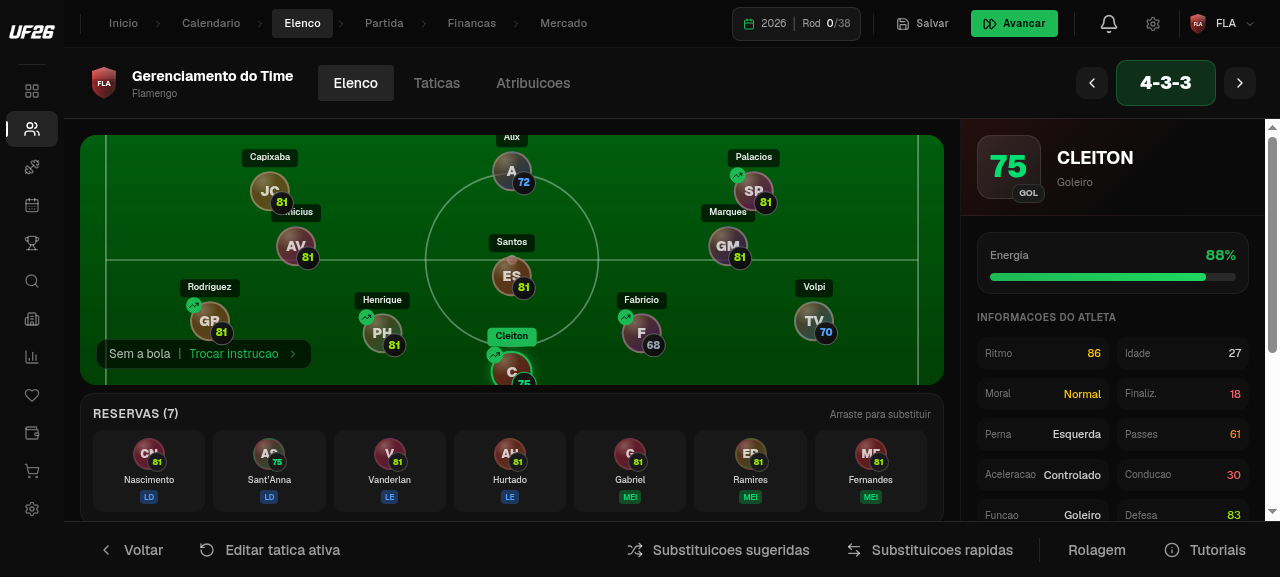
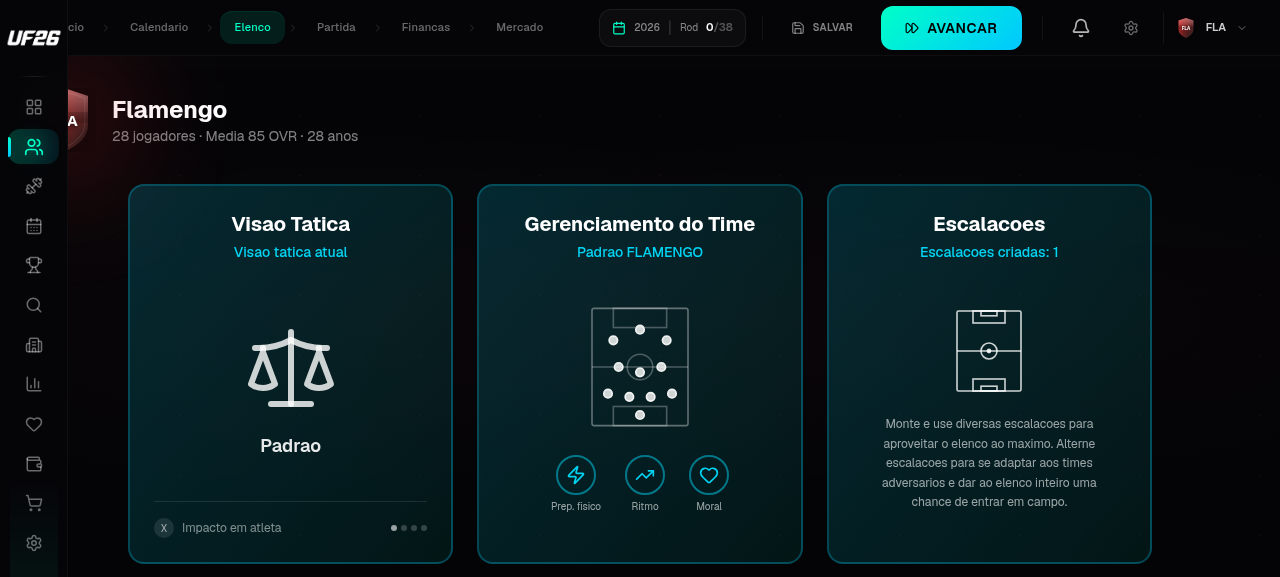
refactor: enhance gamepad responsiveness and layout adjustments
Responsive sidebar and mobile menu; adjust padding and fixed bars; safe-area CSS for mobile

diff --git a/app/elenco/gerenciamento/page.tsx b/app/elenco/gerenciamento/page.tsx
@@ -535,7 +535,7 @@ export default function ElencoPage() {
   // Menu view with cards
   if (currentView === "menu") {
     return (
-      <div className="h-screen pl-16 bg-[#050508] flex flex-col overflow-hidden">
+      <div className="h-screen md:pl-16 pl-0 pb-20 md:pb-0 bg-[#050508] flex flex-col overflow-hidden">
         <GameSidebar />
         <GameHeader team={userTeam} />
         
@@ -649,7 +649,7 @@ export default function ElencoPage() {
           </div>
           
           {/* Bottom controls */}
-          <div className="fixed bottom-0 left-16 right-0 h-14 bg-[#0d0d0d] border-t border-white/10 flex items-center justify-between px-4 md:px-6">
+          <div className="fixed bottom-0 left-0 md:left-16 right-0 h-14 bg-[#0d0d0d] border-t border-white/10 flex items-center justify-between px-4 md:px-6">
             <div className="flex items-center gap-2 md:gap-4">
               <Button variant="ghost" size="sm" className="text-white/60 hover:text-white text-xs md:text-sm">
                 <Gamepad2 className="h-4 w-4 mr-1 md:mr-2" />
@@ -681,7 +681,7 @@ export default function ElencoPage() {
   // Visao Tatica view
   if (currentView === "visao_tatica") {
     return (
-      <div className="h-screen pl-16 bg-gradient-to-br from-primary/20 via-[#0a0a0a] to-primary/10 flex flex-col overflow-hidden">
+      <div className="h-screen md:pl-16 pl-0 pb-20 md:pb-0 bg-gradient-to-br from-primary/20 via-[#0a0a0a] to-primary/10 flex flex-col overflow-hidden">
         <GameSidebar />
         <GameHeader team={userTeam} />
         
@@ -842,7 +842,7 @@ export default function ElencoPage() {
           </div>
           
           {/* Bottom controls */}
-          <div className="fixed bottom-0 left-16 right-0 h-14 bg-[#0d0d0d] border-t border-white/10 flex items-center justify-between px-4 md:px-6">
+          <div className="fixed bottom-0 left-0 md:left-16 right-0 h-14 bg-[#0d0d0d] border-t border-white/10 flex items-center justify-between px-4 md:px-6">
             <div className="flex items-center gap-2 md:gap-4">
               <Button 
                 variant="ghost" 
@@ -1427,7 +1427,7 @@ export default function ElencoPage() {
       </main>
       
       {/* Bottom action bar */}
-      <div className="fixed bottom-0 left-16 right-0 h-12 md:h-14 bg-[#0d0d0d] border-t border-white/10 flex items-center justify-between px-2 md:px-6">
+      <div className="fixed bottom-0 left-0 md:left-16 right-0 h-12 md:h-14 bg-[#0d0d0d] border-t border-white/10 flex items-center justify-between px-2 md:px-6">
         <div className="flex items-center gap-1 md:gap-4">
           <Button 
             variant="ghost" 

diff --git a/app/mercado/page.tsx b/app/mercado/page.tsx
@@ -287,7 +287,7 @@ export default function MercadoPage() {
   }
 
   return (
-    <div className="h-screen overflow-hidden pl-16 bg-[#050508]">
+    <div className="h-screen overflow-hidden md:pl-16 pl-0 pb-20 md:pb-0 bg-[#050508]">
       <GameSidebar />
       <GameHeader team={userTeam} />
 
@@ -859,7 +859,7 @@ export default function MercadoPage() {
             </div>
 
             {/* Bottom Actions Bar */}
-            <div className="fixed bottom-0 left-16 right-0 bg-gradient-to-t from-[#050508] via-[#050508]/95 to-transparent py-4 px-6">
+            <div className="fixed bottom-0 left-0 md:left-16 right-0 bg-gradient-to-t from-[#050508] via-[#050508]/95 to-transparent py-4 px-6">
               <div className="flex items-center justify-between">
                 <div className="flex items-center gap-6">
                   <div className="flex items-center gap-2">
@@ -910,7 +910,7 @@ export default function MercadoPage() {
             </div>
 
             {/* Bottom Actions Bar */}
-            <div className="fixed bottom-0 left-16 right-0 bg-gradient-to-t from-[#050508] via-[#050508]/95 to-transparent py-4 px-6">
+            <div className="fixed bottom-0 left-0 md:left-16 right-0 bg-gradient-to-t from-[#050508] via-[#050508]/95 to-transparent py-4 px-6">
               <div className="flex items-center justify-between">
                 <div className="flex items-center gap-6">
                   <div className="flex items-center gap-2">
@@ -959,7 +959,7 @@ export default function MercadoPage() {
             </div>
 
             {/* Bottom Actions Bar */}
-            <div className="fixed bottom-0 left-16 right-0 bg-gradient-to-t from-[#050508] via-[#050508]/95 to-transparent py-4 px-6">
+            <div className="fixed bottom-0 left-0 md:left-16 right-0 bg-gradient-to-t from-[#050508] via-[#050508]/95 to-transparent py-4 px-6">
               <div className="flex items-center justify-between">
                 <div className="flex items-center gap-6">
                   <div className="flex items-center gap-2">

diff --git a/app/configuracoes/page.tsx b/app/configuracoes/page.tsx
@@ -184,7 +184,7 @@ export default function ConfiguracoesPage() {
   if (currentView === "menu") {
     return (
       <ControllerTypeContext.Provider value={controllerType}>
-        <div className="h-screen pl-16 bg-[#050508] flex flex-col overflow-hidden">
+        <div className="h-screen md:pl-16 pl-0 pb-20 md:pb-0 bg-[#050508] flex flex-col overflow-hidden">
           <GameSidebar />
           <GameHeader team={userTeam} />
           
@@ -238,7 +238,7 @@ export default function ConfiguracoesPage() {
             </div>
             
             {/* Bottom controls */}
-            <div className="fixed bottom-0 left-16 right-0 h-14 bg-[#0d0d0d] border-t border-white/10 flex items-center justify-between px-4 md:px-6">
+            <div className="fixed bottom-0 left-0 md:left-16 right-0 h-14 bg-[#0d0d0d] border-t border-white/10 flex items-center justify-between px-4 md:px-6">
               <div className="flex items-center gap-4">
                 <Button variant="ghost" size="sm" className="text-white/60 hover:text-white text-xs">
                   <Gamepad2 className="h-4 w-4 mr-2" />
@@ -985,7 +985,7 @@ export default function ConfiguracoesPage() {
 
   return (
     <ControllerTypeContext.Provider value={controllerType}>
-      <div className="h-screen pl-16 bg-[#050508] flex flex-col overflow-hidden">
+      <div className="h-screen md:pl-16 pl-0 pb-20 md:pb-0 bg-[#050508] flex flex-col overflow-hidden">
         <GameSidebar />
         <GameHeader team={userTeam} />
 

diff --git a/app/calendario/page.tsx b/app/calendario/page.tsx
@@ -194,7 +194,7 @@ export default function CalendarioPage() {
 
   if (!hydrated) {
     return (
-      <div className="h-screen overflow-hidden pl-16 bg-[#f5f5f0] flex items-center justify-center">
+      <div className="h-screen overflow-hidden md:pl-16 pl-0 pb-20 md:pb-0 bg-[#f5f5f0] flex items-center justify-center">
         <Loader2 className="h-8 w-8 animate-spin text-[#0ea5e9]" />
       </div>
     )
@@ -210,7 +210,7 @@ export default function CalendarioPage() {
     `15 ABR 2026`
 
   return (
-    <div className="h-screen overflow-hidden pl-16 bg-gradient-to-br from-[#f0f0eb] via-[#e8e8e3] to-[#ddddd8]">
+    <div className="h-screen overflow-hidden md:pl-16 pl-0 pb-20 md:pb-0 bg-gradient-to-br from-[#f0f0eb] via-[#e8e8e3] to-[#ddddd8]">
       <GameSidebar />
       <GameHeader team={userTeam} />
 

diff --git a/app/financas/page.tsx b/app/financas/page.tsx
@@ -208,7 +208,7 @@ export default function FinancasPage() {
 
   if (!hydrated || !userTeam || !dynamicFinances) {
     return (
-      <div className="h-screen pl-16 bg-[#050508] flex items-center justify-center">
+      <div className="h-screen md:pl-16 pl-0 pb-20 md:pb-0 bg-[#050508] flex items-center justify-center">
         <Loader2 className="h-8 w-8 animate-spin text-primary" />
       </div>
     )
@@ -217,7 +217,7 @@ export default function FinancasPage() {
   const wagePercentage = (dynamicFinances.wageUsed / dynamicFinances.wageBudget) * 100
 
   return (
-    <div className="h-screen pl-16 bg-[#050508] flex flex-col overflow-hidden">
+    <div className="h-screen md:pl-16 pl-0 pb-20 md:pb-0 bg-[#050508] flex flex-col overflow-hidden">
       <GameSidebar />
       <GameHeader team={userTeam} />
 

diff --git a/app/partida/page.tsx b/app/partida/page.tsx
@@ -346,14 +346,14 @@ export default function PreMatchPage() {
 
   if (!hydrated) {
     return (
-      <div className="h-screen pl-16 bg-[#050508] flex items-center justify-center text-white/40 text-sm">
+      <div className="h-screen md:pl-16 pl-0 pb-20 md:pb-0 bg-[#050508] flex items-center justify-center text-white/40 text-sm">
         Carregando...
       </div>
     )
   }
 
   return (
-    <div className="h-screen pl-16 bg-[#050508] flex flex-col overflow-hidden">
+    <div className="h-screen md:pl-16 pl-0 pb-20 md:pb-0 bg-[#050508] flex flex-col overflow-hidden">
       <GameSidebar />
       <GameHeader team={userTeam} />
 

diff --git a/components/gamepad-controls-bar.tsx b/components/gamepad-controls-bar.tsx
@@ -154,8 +154,9 @@ export function GamepadControlsBar({
 
   return (
     <div className={cn(
-      "fixed bottom-0 left-16 right-0 z-40 flex items-center justify-center gap-6 px-6 py-2.5",
+      "fixed bottom-0 left-0 md:left-16 right-0 z-30 items-center justify-center gap-6 px-6 py-2.5",
       "bg-[#050508]/95 backdrop-blur-sm border-t border-white/[0.04]",
+      "hidden md:flex", // Esconde em mobile pois usamos bottom nav
       className
     )}>
       {actions.map((action, i) => (

diff --git a/app/globals.css b/app/globals.css
@@ -4,6 +4,17 @@
 @custom-variant dark (&:is(.dark *));
 
 /* ============================================
+   MOBILE SAFE AREA - iOS/Android
+   ============================================ */
+.safe-area-pb {
+  padding-bottom: env(safe-area-inset-bottom, 0px);
+}
+
+.safe-area-pt {
+  padding-top: env(safe-area-inset-top, 0px);
+}
+
+/* ============================================
    EA FC 26 PREMIUM DESIGN SYSTEM
    ============================================ */
 

diff --git a/app/elenco/escalacoes/page.tsx b/app/elenco/escalacoes/page.tsx
@@ -182,7 +182,7 @@ export default function EscalacoesPage() {
   const formationPositions = FORMATIONS[selectedLineup?.formation || "4-3-3"]?.positions || FORMATIONS["4-3-3"].positions
 
   return (
-    <div className="flex h-screen bg-[#050508] overflow-hidden">
+    <div className="flex h-screen pb-20 md:pb-0 bg-[#050508] overflow-hidden">
       <GameSidebar />
       <div className="flex-1 flex flex-col min-h-0 overflow-hidden">
         <GameHeader />

diff --git a/app/central/page.tsx b/app/central/page.tsx
@@ -121,7 +121,7 @@ export default function CentralPage() {
   const averageMorale = Math.round(playerMorale.reduce((acc, p) => acc + p.morale, 0) / playerMorale.length)
 
   return (
-    <div className="h-screen pl-16 bg-[#050508] flex flex-col overflow-hidden">
+    <div className="h-screen md:pl-16 pl-0 pb-20 md:pb-0 bg-[#050508] flex flex-col overflow-hidden">
       <GameSidebar />
       <GameHeader team={userTeam} />
       

diff --git a/app/infraestrutura/page.tsx b/app/infraestrutura/page.tsx
@@ -208,7 +208,7 @@ export default function InfraestruturaPage() {
   const selectedAreaData = selectedArea ? INFRASTRUCTURE_AREAS.find(a => a.id === selectedArea) : null
 
   return (
-    <div className="h-screen overflow-hidden pl-16 bg-[#050508]">
+    <div className="h-screen overflow-hidden md:pl-16 pl-0 pb-20 md:pb-0 bg-[#050508]">
       <GameSidebar />
       <GameHeader team={userTeam ?? undefined} />
 

diff --git a/app/adversarios/page.tsx b/app/adversarios/page.tsx
@@ -188,7 +188,7 @@ export default function AdversariosPage() {
   const selectedAnalysis = selectedTeam ? getAnalysis(selectedTeam) : null
 
   return (
-    <div className="h-screen pl-16 bg-[#050508] flex flex-col overflow-hidden">
+    <div className="h-screen md:pl-16 pl-0 pb-20 md:pb-0 bg-[#050508] flex flex-col overflow-hidden">
       <GameSidebar />
       <GameHeader team={userTeam} />
       
